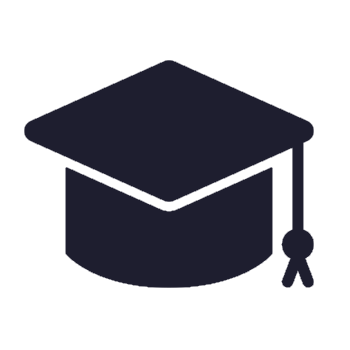
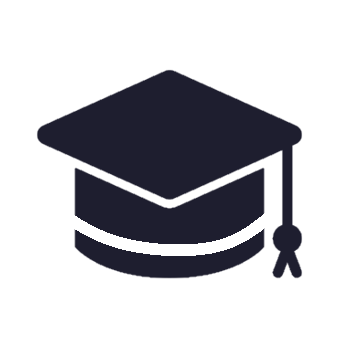
Small website update

Changed region(s): [[0.0571, 0.1714, 0.9143, 0.8286]]

diff --git a/publications.html b/publications.html
@@ -92,17 +92,16 @@
                         <img src="assets/Other/publication.png" alt=" ">
                     </div>
                     <div class="details">
-                        <div class="date">2025</div>
+                        <div class="date">2026 <span class="researchType">| Research Paper</span></div>
                         <h3>
-                            Multimodal Context-Awareness in AI-Driven Virtual Reality
+                            Developing a Large Language Model-Based Feedback Tool for Primary School Teachers Supporting
+                            Neurodivergent Learners
                         </h3>
                         <div class="author">
                             R. Y. Camilleri, V. Camilleri & M. Montebello
                         </div>
-                        <a href="papers/PrePrint_Multimodal-Context.pdf" target="_blank" class="prePrint">Pre-Print PDF</a>
-                        |
-                        <a href="https://www.igi-global.com/gateway/chapter/401162" target="_blank"
-                            class="officialPrint">Published Paper</a>
+                        <a href="https://www.intechopen.com/journals/1/articles/845" target="_blank"
+                            class="openAccessPrint">Open-Access Paper</a>
                     </div>
                 </div>
 
@@ -111,7 +110,27 @@
                         <img src="assets/Other/publication.png" alt=" ">
                     </div>
                     <div class="details">
-                        <div class="date">2025 <span class="researchType">| Research Paper</span></div>
+                        <div class="date">2025 <span class="researchType">| Book Chapter</span></div>
+                        <h3>
+                            Multimodal Context-Awareness in AI-Driven Virtual Reality
+                        </h3>
+                        <div class="author">
+                            R. Y. Camilleri, V. Camilleri & M. Montebello
+                        </div>
+                        <a href="papers/PrePrint_Multimodal-Context.pdf" target="_blank" class="prePrint">Pre-Print
+                            PDF</a>
+                        |
+                        <a href="https://www.igi-global.com/gateway/chapter/401162" target="_blank"
+                            class="officialPrint">Published Paper</a>
+                    </div>
+                </div>
+
+                <div class="publication-item">
+                    <div class="logo">
+                        <img src="assets/Other/conference paper.png" alt=" ">
+                    </div>
+                    <div class="details">
+                        <div class="date">2025 <span class="researchType">| Conference Paper</span></div>
                         <h3>
                             Ethics in Artificial Intelligence for Virtual Reality: Navigating Challenges Under the EU AI
                             Act
@@ -128,10 +147,10 @@
 
                 <div class="publication-item">
                     <div class="logo">
-                        <img src="assets/Other/publication.png" alt=" ">
+                        <img src="assets/Other/conference paper.png" alt=" ">
                     </div>
                     <div class="details">
-                        <div class="date">2024 <span class="researchType">| Research Paper</span></div>
+                        <div class="date">2024 <span class="researchType">| Conference Paper</span></div>
                         <h3>
                             Beyond the Maze: How AI Personalizes Learning and Drives Engagement in Educational Games
                         </h3>
@@ -147,7 +166,7 @@
 
                 <div class="publication-item">
                     <div class="logo">
-                        <img src="assets/Other/thesis - Copy.png" alt=" ">
+                        <img src="assets/Other/thesis.png" alt=" ">
                     </div>
                     <div class="details">
                         <div class="date">2024 <span class="researchType">| Thesis</span></div>
@@ -182,19 +201,35 @@
 
                 <div class="publication-item">
                     <div class="logo">
-                        <img src="assets/Other/publication.png" alt=" ">
+                        <img src="assets/Other/conference paper.png" alt=" ">
                     </div>
                     <div class="details">
-                        <div class="date">2025 <span class="researchType">| Research Paper</span></div>
+                        <div class="date">2026 <span class="researchType">| Conference Paper</span></div>
+                        <h3>
+                            Ethics by Design in Sports AI: Embedding Explainable and Responsible Intelligence for Swimming Performance
+                        </h3>
+                        <div class="author">
+                            V. Camilleri, R. Y. Camilleri, M. Fialovszky & D. Pace
+                        </div>
+                        Coming Soon...
+                    </div>
+                </div>
+
+                <div class="publication-item">
+                    <div class="logo">
+                        <img src="assets/Other/conference paper.png" alt=" ">
+                    </div>
+                    <div class="details">
+                        <div class="date">2025 <span class="researchType">| Conference Paper</span></div>
                         <h3>
                             Designing a Multimodal AI Framework for Swimming Analytics: Architecture, Data
                             Infrastructure and Human-Centred Objectives
                         </h3>
                         <div class="author">
-                            V. Camilleri, R. Y. Camilleri, M. Fialovszky, Mark Fialovszky, D. Pace, D. Seychell & M.
-                            Montebello
+                            V. Camilleri, R. Y. Camilleri, M. Fialovszky, D. Pace, D. Seychell & M. Montebello
                         </div>
-                        Coming Soon...
+                        <a href="https://www.iadisportal.org/digital-library/designing-a-multimodal-ai-framework-for-swimming-analytics-architecture-data-infrastructure-and-human-centred-objectives"
+                            target="_blank" class="officialPrint">Published Paper</a>
                     </div>
                 </div>
 
@@ -209,8 +244,7 @@
                             SWIM-360 Project
                         </h3>
                         <div class="author">
-                            V. Camilleri, R. Y. Camilleri, M. Fialovszky, Mark Fialovszky, D. Pace, D. Seychell & M.
-                            Montebello
+                            V. Camilleri, R. Y. Camilleri, M. Fialovszky, D. Pace, D. Seychell & M. Montebello
                         </div>
                         <a href="https://www.mdpi.com/1424-8220/25/22/7047" target="_blank"
                             class="openAccessPrint">Open-Access Paper</a>

diff --git a/portfolio.html b/portfolio.html
@@ -55,10 +55,10 @@
             <div class="projects">
                 <div class="project-item">
                     <div class="logo">
-                        <img src="assets/Other/swim360.png" alt="Swim360 Picture">
+                        <img src="assets/Other/Portfolio/Swim-360.png" alt="Swim360 Picture">
                     </div>
                     <div class="details">
-                        <div class="date"> 2024 </div>
+                        <div class="date"> 2024 - Present </div>
                         <h3>Project Swim-360</h3>
                         <p>
                             As part of the SWIM-360 project, I contributed to the development of an AI-driven system
@@ -74,7 +74,7 @@
             <div class="projects">
                 <div class="project-item">
                     <div class="logo">
-                        <img src="assets/Other/UNESCO_Hackathon25.png" alt="UNESCO Hackathon Logo">
+                        <img src="assets/Other/Portfolio/UNESCO Hackathon.png" alt="UNESCO Hackathon Logo">
                     </div>
                     <div class="details">
                         <div class="date"> 2025</div>
@@ -92,7 +92,7 @@
 
                 <div class="project-item">
                     <div class="logo">
-                        <img src="assets/Other/eyDoodle.png" alt="AI Generated Image">
+                        <img src="assets/Other/Portfolio/EY Doodle.png" alt="AI Generated Image">
                     </div>
                     <div class="details">
                         <div class="date"> 2023</div>
@@ -108,7 +108,7 @@
 
                 <div class="project-item">
                     <div class="logo">
-                        <img src="assets/Other/botball.png" alt="Botball Picture">
+                        <img src="assets/Other/Portfolio/Botball.png" alt="Botball Picture">
                     </div>
                     <div class="details">
                         <div class="date"> 2019</div>
@@ -124,7 +124,7 @@
 
                 <div class="project-item">
                     <div class="logo">
-                        <img src="assets/Other/muzeum.png" alt="AI Generated Image">
+                        <img src="assets/Other/Portfolio/Muzeum.png" alt="AI Generated Image">
                     </div>
                     <div class="details">
                         <div class="date"> 2017 - 2020</div>
@@ -143,7 +143,7 @@
             <div class="projects">
                 <div class="project-item">
                     <div class="logo">
-                        <img src="assets/Other/ftc2025.png" alt="Picture of me presenting">
+                        <img src="assets/Other/Conferences/FTC 2025.png" alt="Picture of me presenting">
                     </div>
                     <div class="details">
                         <div class="date"> 2025</div>
@@ -157,7 +157,7 @@
 
                 <div class="project-item">
                     <div class="logo">
-                        <img src="assets/Other/ftc2024.png" alt="Picture of me presenting">
+                        <img src="assets/Other/Conferences/FTC 2024.png" alt="Picture of me presenting">
                     </div>
                     <div class="details">
                         <div class="date"> 2024</div>
@@ -179,7 +179,7 @@
             <div class="projects">
                 <div class="project-item">
                     <div class="logo">
-                        <img src="assets/Other/gamejam2023.png" alt="Gamejam 2023 Gameplay">
+                        <img src="assets/Other/GameLogos/UM Gamejam 2023.png" alt="Gamejam 2023 Gameplay">
                     </div>
                     <div class="details">
                         <div class="date"> 2023</div>
@@ -199,7 +199,7 @@
 
                 <div class="project-item">
                     <div class="logo">
-                        <img src="assets/Other/gamejam2022.png" alt="Gamejam 2022 Gameplay">
+                        <img src="assets/Other/GameLogos/UM Gamejam 2022.png" alt="Gamejam 2022 Gameplay">
                     </div>
                     <div class="details">
                         <div class="date"> 2022</div>
@@ -222,7 +222,24 @@
             <div class="projects">
                 <div class="project-item">
                     <div class="logo">
-                        <img src="assets/Other/Inspire2025.png" alt="Game Page">
+                        <img src="assets/Other/GameLogos/Roblox Dev Challenge 2026.png" alt="Game Page">
+                    </div>
+                    <div class="details">
+                        <div class="date"> 2026 </div>
+                        <h3>Roblox Developer Gamejam</h3>
+                        <p>
+                            Roblox Developer Challenge 2026 was a global online creation event combining workshops with
+                            a rapid-fire, time-limited gamejam. The theme that year was "First Contact!". I joined as a
+                            programmer in a team of three, where together we created a game inviting players to serve a
+                            group of alien customers by preparing dishes based on instructions, while also adapting to
+                            hidden preferences that were not always clearly communicated.
+                        </p>
+                    </div>
+                </div>
+
+                <div class="project-item">
+                    <div class="logo">
+                        <img src="assets/Other/GameLogos/Roblox Inspire 2025.png" alt="Game Page">
                     </div>
                     <div class="details">
                         <div class="date"> 2025 </div>
@@ -239,7 +256,7 @@
 
                 <div class="project-item">
                     <div class="logo">
-                        <img src="assets/Other/beDog.png" alt="Game Page">
+                        <img src="assets/Other/GameLogos/Be a Dog.png" alt="Game Page">
                     </div>
                     <div class="details">
                         <div class="date"> 2024 </div>
@@ -256,7 +273,7 @@
 
                 <div class="project-item">
                     <div class="logo">
-                        <img src="assets/Other/flex.png" alt="Game Page">
+                        <img src="assets/Other/GameLogos/Flex obby skills.png" alt="Game Page">
                     </div>
                     <div class="details">
                         <div class="date"> 2021 </div>
@@ -273,7 +290,7 @@
 
                 <div class="project-item">
                     <div class="logo">
-                        <img src="assets/Other/heaven.png" alt="Game Page">
+                        <img src="assets/Other/GameLogos/Stairway to Heaven.png" alt="Game Page">
                     </div>
                     <div class="details">
                         <div class="date"> 2020 </div>

diff --git a/index.html b/index.html
@@ -62,19 +62,7 @@
         <div class="section" id="about">
             <h1>About Me</h1>
 
-            <div class="aboutMeExtra">
-                <div class="aboutMeExtra-Box">
-                    <b>Nationality</b><br><br> Maltese
-                </div>
-                <div class="aboutMeExtra-Box">
-                    <b>Date of Birth</b><br><br> 23rd July 2002
-                </div>
-                <div class="aboutMeExtra-Box">
-                    <b>Gender</b><br><br> Male
-                </div>
-            </div>
-
-            <p>Hello and welcome! My name is Reno Yuri Camilleri, and I am an Artificial Intelligence (AI) engineer
+            <p>Hello and welcome! My name is Reno Yuri Camilleri, and I am an Artificial Intelligence engineer
                 with a deep-rooted passion for advancing the field of intelligent systems.</p>
             <p>I am currently pursuing a <b>Doctorate (PhD) in Artificial Intelligence</b> at the University of Malta,
                 where I
@@ -82,7 +70,7 @@
                 contribute meaningfully to both theoretical advancements and real-world applications in AI.</p>
             <p>My academic and professional journey has equipped me with a robust foundation in a wide array of AI
                 disciplines. These include, but are not limited to: Reinforcement Learning, Genetic Algorithms, Natural
-                Language Processing (NLP), Computer Vision, and Semantic Analysis. I am especially driven by the
+                Language Processing, Computer Vision, and Semantic Analysis. I am especially driven by the
                 challenge of designing intelligent systems that can learn, adapt, and interact with the world in
                 human-like ways.</p>
             <p>As a professional, I approach every project with full commitment and a meticulous attention to detail. My

diff --git a/css/main.css b/css/main.css
@@ -43,6 +43,9 @@ body {
     background-color: #f9f9f9;
     color: #1e1e2f;
     min-height: 100vh;
+
+    background-image: radial-gradient(rgba(0, 0, 0, 0.014) 25px, transparent 1px);
+    background-size: 100px 100px;
 }
 
 .sidebar {